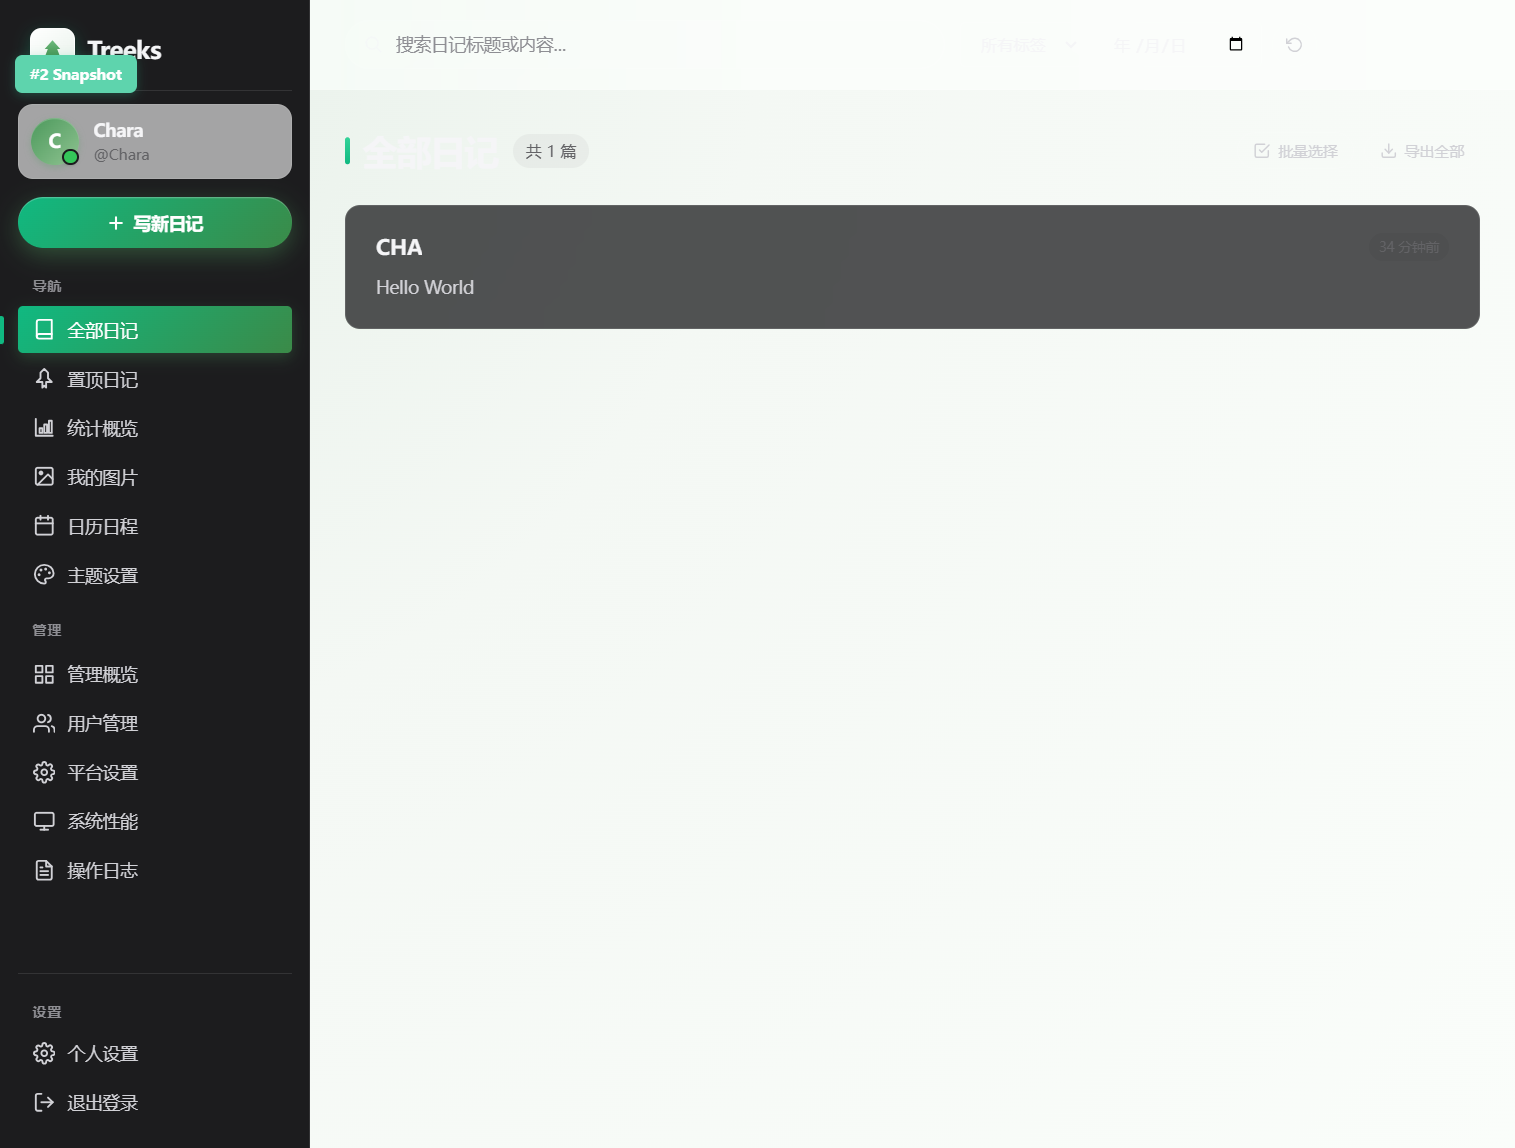
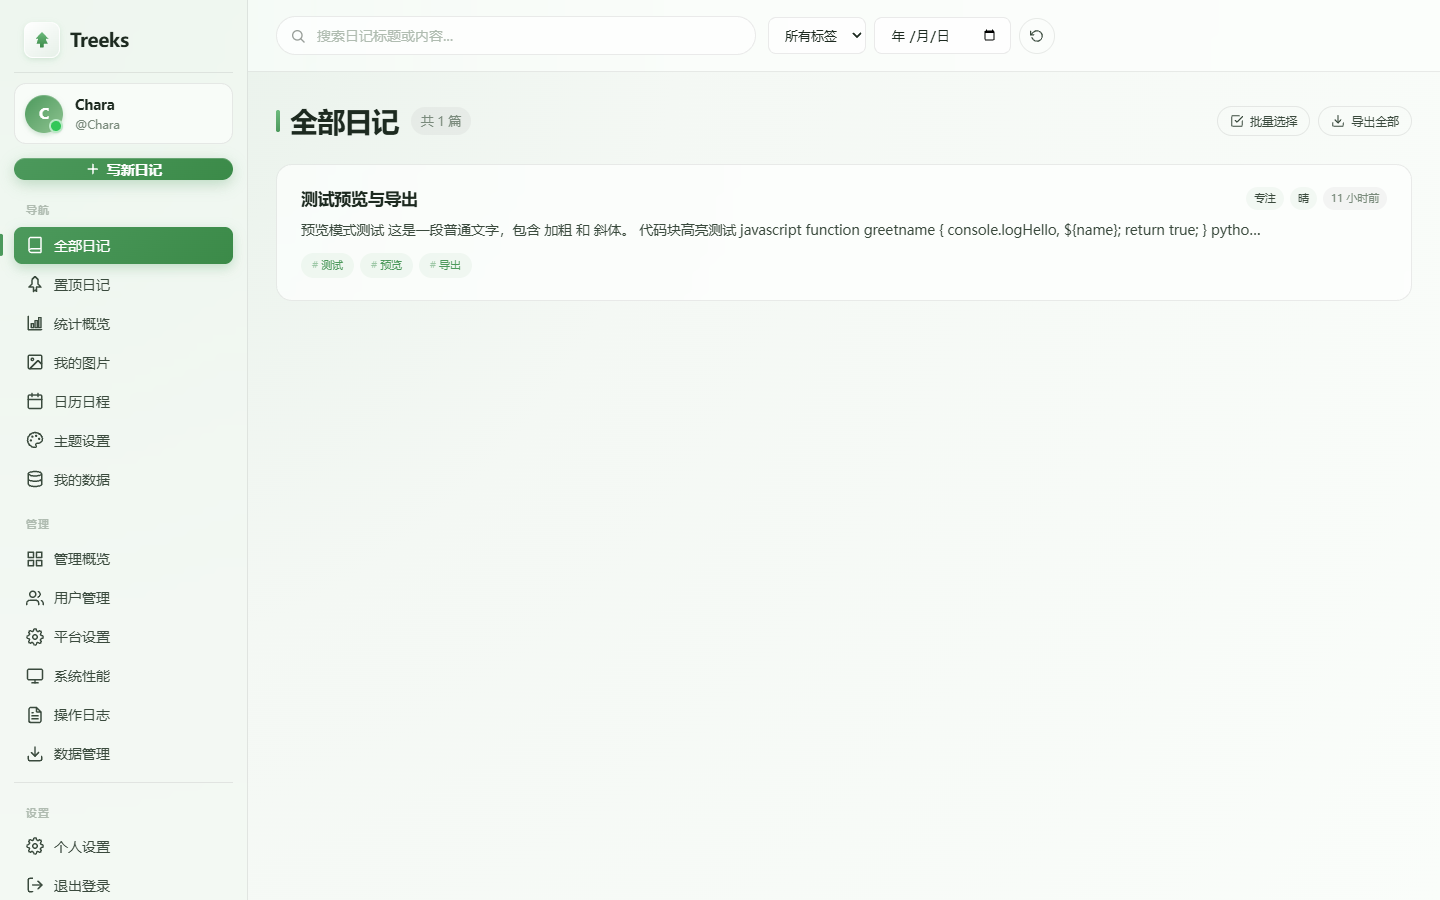
docs: 重新截取 README 截图（白色淡绿主题）
- 通过强制清除 localStorage + 后端 PUT /api/auth/theme 接口双重保障，
  确保 8 张截图全部在森林绿（white light green）主题下生成
- 经视觉验证确认：背景为浅色（rgb(244, 248, 244) 渐变），
  主题标记 data-theme="green"，侧边栏/卡片均为浅色样式
- 添加 scripts/take-screenshots.js 截图脚本与 theme-report.json 验证报告，
  便于将来重生成截图

提交包含的截图：
- login.png - 登录页面
- theme-settings.png - 主题设置（森林绿标记为「当前使用」）
- calendar-schedule.png - 日历日程
- data-management.png - 数据管理
- admin-overview.png - 管理概览
- system-performance-full.png - 系统性能与清理
- diaries-page.png - 全部日记
- editor-mode-split.png - 编辑器分屏模式

Changed region(s): [[0.0, 0.0, 1.0, 1.0], [0.5312, 0.0311, 0.5938, 0.0622], [0.625, 0.0311, 0.6562, 0.0622]]

diff --git a/scripts/take-screenshots.js b/scripts/take-screenshots.js
@@ -1,0 +1,208 @@
+// Treeks 主题验证与截图脚本
+// 强制使用白色淡绿（森林绿）主题
+
+const puppeteer = require('puppeteer');
+const path = require('path');
+const fs = require('fs');
+
+const SCREENSHOTS_DIR = path.resolve('docs/screenshots');
+const BASE_URL = 'http://localhost:3000';
+
+if (!fs.existsSync(SCREENSHOTS_DIR)) {
+  fs.mkdirSync(SCREENSHOTS_DIR, { recursive: true });
+}
+
+function sleep(ms) { return new Promise(r => setTimeout(r, ms)); }
+
+async function main() {
+  const browser = await puppeteer.launch({
+    headless: 'new',
+    args: ['--no-sandbox', '--disable-setuid-sandbox', '--window-size=1440,900']
+  });
+
+  const page = await browser.newPage();
+  await page.setViewport({ width: 1440, height: 900, deviceScaleFactor: 1 });
+
+  // 收集所有验证信息
+  const results = {};
+
+  try {
+    // ===== 步骤 1：访问首页 =====
+    console.log('1) 访问首页 http://localhost:3000');
+    await page.goto(BASE_URL, { waitUntil: 'networkidle0', timeout: 30000 });
+    await sleep(1500);
+
+    // ===== 步骤 2：强制清除 localStorage 并刷新 =====
+    console.log('2) 清除 localStorage 并刷新');
+    await page.evaluate(() => {
+      try { localStorage.clear(); } catch (e) {}
+    });
+    await page.reload({ waitUntil: 'networkidle0' });
+    await sleep(2000);
+
+    // ===== 步骤 3：验证主题 =====
+    console.log('3) 验证主题');
+    const themeInfo = await page.evaluate(() => {
+      const html = document.documentElement;
+      const body = document.body;
+      return {
+        dataTheme: html.getAttribute('data-theme'),
+        bodyBg: getComputedStyle(body).backgroundColor,
+        bodyColor: getComputedStyle(body).color,
+        treeksTheme: localStorage.getItem('treeks_theme'),
+        treeksUser: localStorage.getItem('treeks_user')
+      };
+    });
+    console.log('   主题信息:', JSON.stringify(themeInfo));
+    results.initialTheme = themeInfo;
+
+    // ===== 步骤 4：截图 login.png =====
+    console.log('4) 截图 login.png');
+    const loginPath = path.join(SCREENSHOTS_DIR, 'login.png');
+    await page.screenshot({ path: loginPath, fullPage: false });
+    results.login = { path: loginPath, dataTheme: themeInfo.dataTheme, bodyBg: themeInfo.bodyBg };
+    console.log('   保存到:', loginPath);
+
+    // ===== 步骤 5：登录 =====
+    console.log('5) 登录 Chara/admin123');
+    await page.waitForSelector('#login-username', { timeout: 10000 });
+    await page.type('#login-username', 'Chara');
+    await page.type('#login-password', 'admin123');
+    await Promise.all([
+      page.waitForNavigation({ waitUntil: 'networkidle0', timeout: 30000 }).catch(() => null),
+      page.click('button[type="submit"].btn-primary')
+    ]);
+    await sleep(2000);
+
+    // 验证登录后主题（后端会强制设置 Chara 为 green）
+    const postLoginTheme = await page.evaluate(() => {
+      const html = document.documentElement;
+      const body = document.body;
+      let user = null;
+      try { user = JSON.parse(localStorage.getItem('treeks_user') || 'null'); } catch (e) {}
+      return {
+        dataTheme: html.getAttribute('data-theme'),
+        bodyBg: getComputedStyle(body).backgroundColor,
+        treeksTheme: localStorage.getItem('treeks_theme'),
+        userTheme: user ? user.theme : null,
+        username: user ? user.username : null,
+        isAdmin: user ? user.is_admin : null
+      };
+    });
+    console.log('   登录后主题:', JSON.stringify(postLoginTheme));
+    results.postLoginTheme = postLoginTheme;
+
+    // 等待日记列表加载
+    await sleep(1500);
+
+    // 工具函数：导航到指定页面并截图
+    async function navAndShot(selector, fileName, label) {
+      console.log(`  导航到: ${label} -> 截图: ${fileName}`);
+      await page.evaluate((sel) => {
+        const btn = document.querySelector(sel);
+        if (btn) btn.click();
+        else throw new Error('未找到按钮: ' + sel);
+      }, selector);
+      // 等待视图切换
+      await sleep(2200);
+      const theme = await page.evaluate(() => {
+        const html = document.documentElement;
+        const body = document.body;
+        return {
+          dataTheme: html.getAttribute('data-theme'),
+          bodyBg: getComputedStyle(body).backgroundColor
+        };
+      });
+      const filePath = path.join(SCREENSHOTS_DIR, fileName);
+      await page.screenshot({ path: filePath, fullPage: false });
+      results[label] = { path: filePath, dataTheme: theme.dataTheme, bodyBg: theme.bodyBg, file: fileName };
+      console.log(`     路径: ${filePath} 主题: ${theme.dataTheme} bodyBg: ${theme.bodyBg}`);
+    }
+
+    // ===== 步骤 6：截图 diaries-page.png =====
+    await navAndShot('.sidebar-nav .nav-item[data-nav="list"]', 'diaries-page.png', 'diaries');
+
+    // ===== 步骤 7：截图 editor-mode-split.png =====
+    // 点击第一篇日记卡片进入编辑器
+    console.log('  点击第一篇日记进入编辑器');
+    await page.waitForSelector('.diary-card', { timeout: 10000 });
+    await page.evaluate(() => {
+      const card = document.querySelector('.diary-card');
+      if (card) card.click();
+    });
+    await sleep(2500);
+    // 强制切到分屏模式
+    await page.evaluate(() => {
+      const splitBtn = document.querySelector('#editor-mode-toggle .mode-btn[data-mode="split"]');
+      if (splitBtn) splitBtn.click();
+    });
+    await sleep(1500);
+    {
+      const theme = await page.evaluate(() => {
+        const html = document.documentElement;
+        const body = document.body;
+        const editorBody = document.querySelector('.editor-body');
+        return {
+          dataTheme: html.getAttribute('data-theme'),
+          bodyBg: getComputedStyle(body).backgroundColor,
+          mode: editorBody ? editorBody.className : null
+        };
+      });
+      const filePath = path.join(SCREENSHOTS_DIR, 'editor-mode-split.png');
+      await page.screenshot({ path: filePath, fullPage: false });
+      results.editor = { path: filePath, dataTheme: theme.dataTheme, bodyBg: theme.bodyBg, mode: theme.mode };
+      console.log(`     路径: ${filePath} 主题: ${theme.dataTheme} bodyBg: ${theme.bodyBg} mode: ${theme.mode}`);
+    }
+
+    // 返回列表
+    await page.evaluate(() => {
+      const back = document.getElementById('btn-back-list');
+      if (back) back.click();
+    });
+    await sleep(1500);
+
+    // ===== 步骤 8：截图 calendar-schedule.png =====
+    await navAndShot('.sidebar-nav .nav-item[data-nav="calendar"]', 'calendar-schedule.png', 'calendar');
+
+    // ===== 步骤 9：截图 theme-settings.png =====
+    await navAndShot('.sidebar-nav .nav-item[data-nav="theme"]', 'theme-settings.png', 'theme');
+
+    // ===== 步骤 10：截图 data-management.png =====
+    await navAndShot('.sidebar-nav .nav-item[data-nav="admin-data"]', 'data-management.png', 'dataManagement');
+
+    // ===== 步骤 11：截图 admin-overview.png =====
+    await navAndShot('.sidebar-nav .nav-item[data-nav="admin-dashboard"]', 'admin-overview.png', 'adminOverview');
+
+    // ===== 步骤 12：截图 system-performance-full.png =====
+    await navAndShot('.sidebar-nav .nav-item[data-nav="admin-system"]', 'system-performance-full.png', 'systemPerformance');
+    // 等系统性能页面渲染完整
+    await sleep(2500);
+    {
+      const filePath = path.join(SCREENSHOTS_DIR, 'system-performance-full.png');
+      await page.screenshot({ path: filePath, fullPage: true });
+      const theme = await page.evaluate(() => {
+        const html = document.documentElement;
+        const body = document.body;
+        return { dataTheme: html.getAttribute('data-theme'), bodyBg: getComputedStyle(body).backgroundColor };
+      });
+      results.systemPerformance.path = filePath;
+      results.systemPerformance.dataTheme = theme.dataTheme;
+      results.systemPerformance.bodyBg = theme.bodyBg;
+      console.log(`     全页截图: ${filePath} 主题: ${theme.dataTheme} bodyBg: ${theme.bodyBg}`);
+    }
+
+  } catch (err) {
+    console.error('错误:', err);
+    results.error = err.message;
+  } finally {
+    await browser.close();
+  }
+
+  // 写入报告
+  const reportPath = path.join(SCREENSHOTS_DIR, '_theme_report.json');
+  fs.writeFileSync(reportPath, JSON.stringify(results, null, 2), 'utf-8');
+  console.log('\n=== 截图完成 ===');
+  console.log('报告:', reportPath);
+}
+
+main().catch(e => { console.error(e); process.exit(1); });
